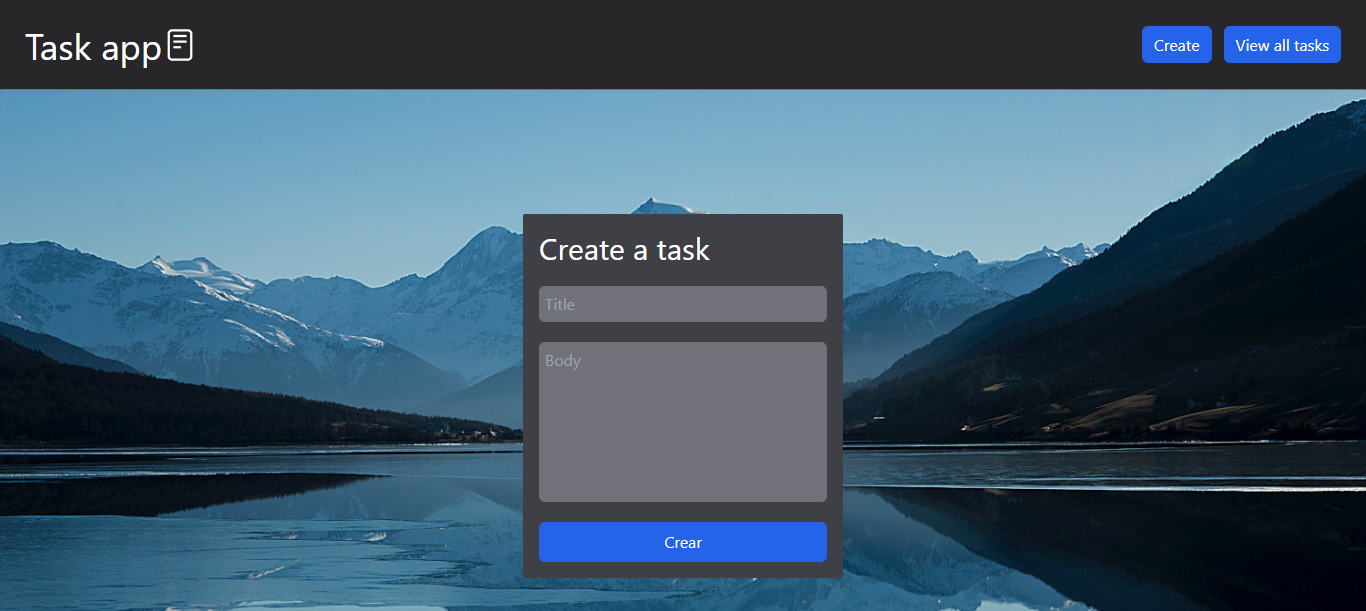
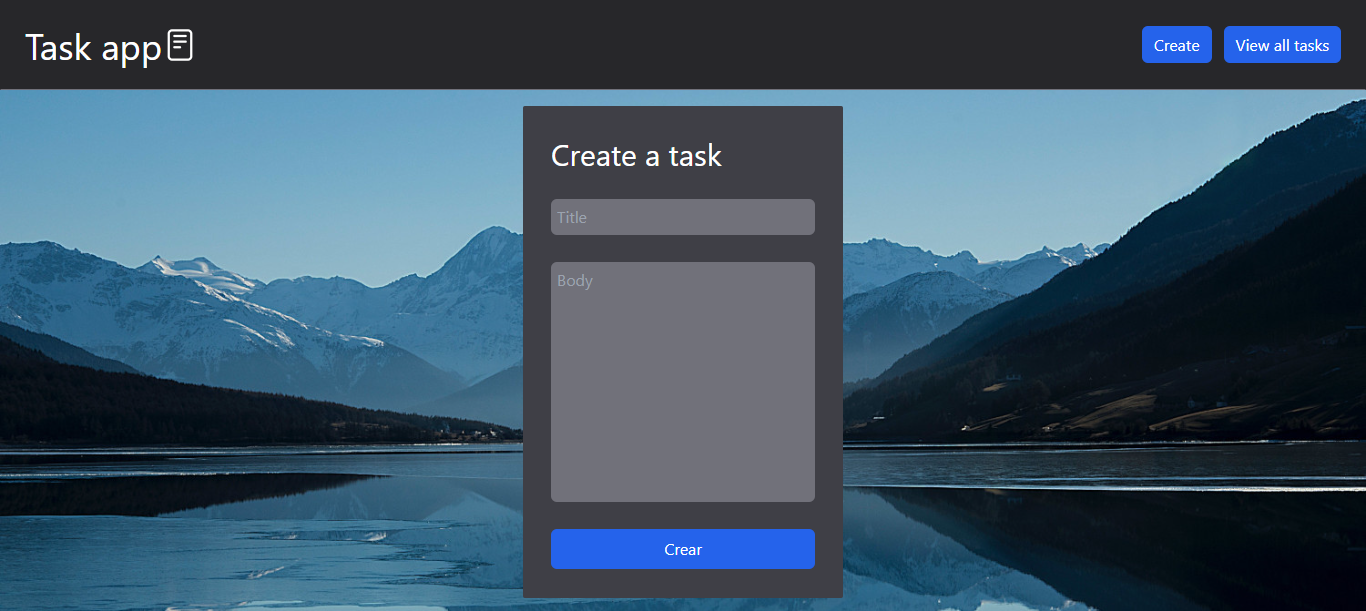
update

Changed region(s): [[0.369, 0.1555, 0.6149, 0.9951]]

diff --git a/frontend/src/pages/CreateTask.tsx b/frontend/src/pages/CreateTask.tsx
@@ -37,13 +37,13 @@ export function CreateTask() {
   };
 
   return (
-    <div className="w-full h-full flex justify-center items-center">
+    <div className="w-full h-full flex justify-center sm:py-4 overflow-y-auto">
       <form
         onSubmit={handleSubmit}
-        className="bg-zinc-700 w-full h-full p-4 flex flex-col rounded-sm sm:w-80 sm:h-fit"
+        className="bg-zinc-700 w-full h-full py-4 px-7 flex flex-col rounded-sm sm:w-80 sm:h-[85%] sm:justify-around"
       >
-        <h2 className="text-white mt-5 text-3xl mb-5 sm:mt-0">Create a task</h2>
-        <div className="rounded-md mb-5 mt-5 sm:mt-0">
+        <h2 className="text-white mt-6 text-3xl sm:mt-0">Create a task</h2>
+        <div className="rounded-md mt-6 sm:mt-0">
           <input
             type="text"
             name="title"
@@ -55,13 +55,13 @@ export function CreateTask() {
         </div>
         <textarea
           name="body"
-          className="block bg-zinc-500 w-full h-40 mb-5 mt-5 sm:mt-0 rounded-md border-0 p-1.5 text-white text-md resize-none placeholder:text-gray-400"
+          className="block bg-zinc-500 w-full h-60 mt-6 sm:mt-0 rounded-md border-0 p-1.5 text-white text-md resize-none placeholder:text-gray-400"
           placeholder="Body"
           value={body}
           onChange={handleChangeBody}
         ></textarea>
         <button
-          className="btn bg-blue-600 text-white px-3 py-2 mt-5 sm:mt-0 rounded-md hover:bg-blue-700"
+          className="btn bg-blue-600 text-white px-3 py-2 mt-6 sm:mt-0 rounded-md hover:bg-blue-700"
           type="submit"
         >Crear</button>
       </form>

diff --git a/frontend/src/pages/Tasks.tsx b/frontend/src/pages/Tasks.tsx
@@ -2,6 +2,7 @@ import { useEffect, useState } from "react";
 import axios from "axios";
 import { LocalTask, Task } from "../types";
 import { TaskCard } from "../components/TaskCard";
+import { App } from '../App'
 import IonIcon from '@reacticons/ionicons'
 
 export function Tasks() {
@@ -36,8 +37,11 @@ export function Tasks() {
       >
         {tasks.length == 0 ? (
           <div className="w-full h-full text-5xl text-white flex justify-center items-center">
-            { load ? (<IonIcon className="animate-spin" name="reload"></IonIcon>) : (<h1 className="text-blue-500 text-4xl">There are not tasks yet</h1>) }
-          </div>
+          { load ? 
+            (<IonIcon className="animate-spin" name="reload"></IonIcon>) : 
+              (<h1 className="text-blue-500 text-4xl">There are not tasks yet</h1>)
+          }
+        </div>
         ) : (
           tasks.map((task: LocalTask) => <TaskCard key={task.id} taskData={task}></TaskCard>)
         )}

diff --git a/frontend/src/routes/routes.tsx b/frontend/src/routes/routes.tsx
@@ -1,9 +1,9 @@
-import { createBrowserRouter, createHashRouter } from "react-router-dom";
+import { createBrowserRouter } from "react-router-dom";
 import { App } from "../App";
 import { CreateTask } from "../pages/CreateTask";
 import { Tasks } from "../pages/Tasks";
 
-export const routes = createHashRouter([
+export const routes = createBrowserRouter([
   {
     element: <App />,
     children: [
@@ -12,7 +12,7 @@ export const routes = createHashRouter([
         element: <Tasks />,
       },
       {
-        path: "/create",
+        path: "create",
         element: <CreateTask />,
       },
     ],

diff --git a/frontend/src/main.tsx b/frontend/src/main.tsx
@@ -7,6 +7,6 @@ import "./index.css";
 
 ReactDOM.createRoot(document.getElementById("root") as HTMLElement).render(
   <React.StrictMode>
-    <RouterProvider router={routes} />
+    <RouterProvider router={routes}  />
   </React.StrictMode>
 );
